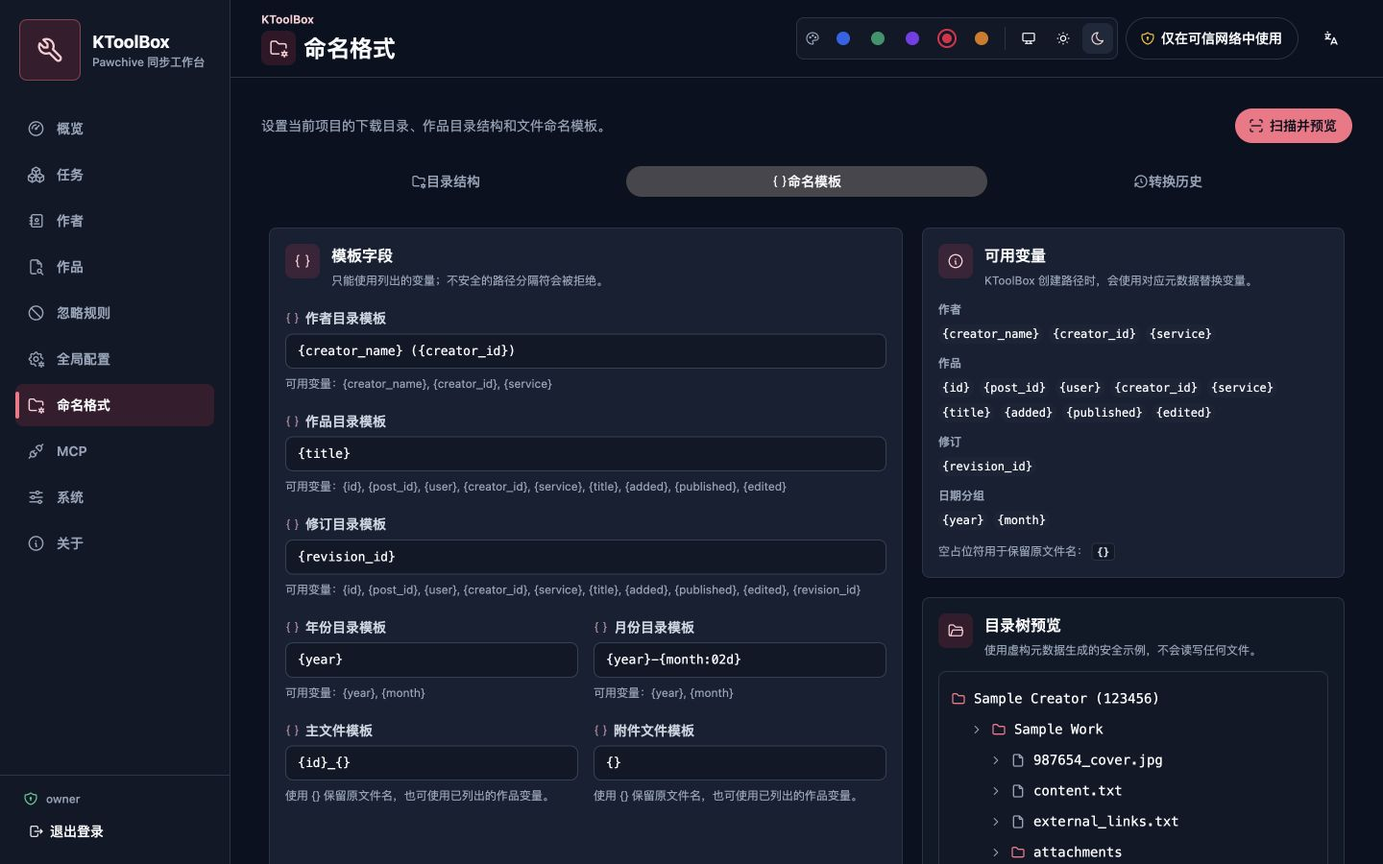
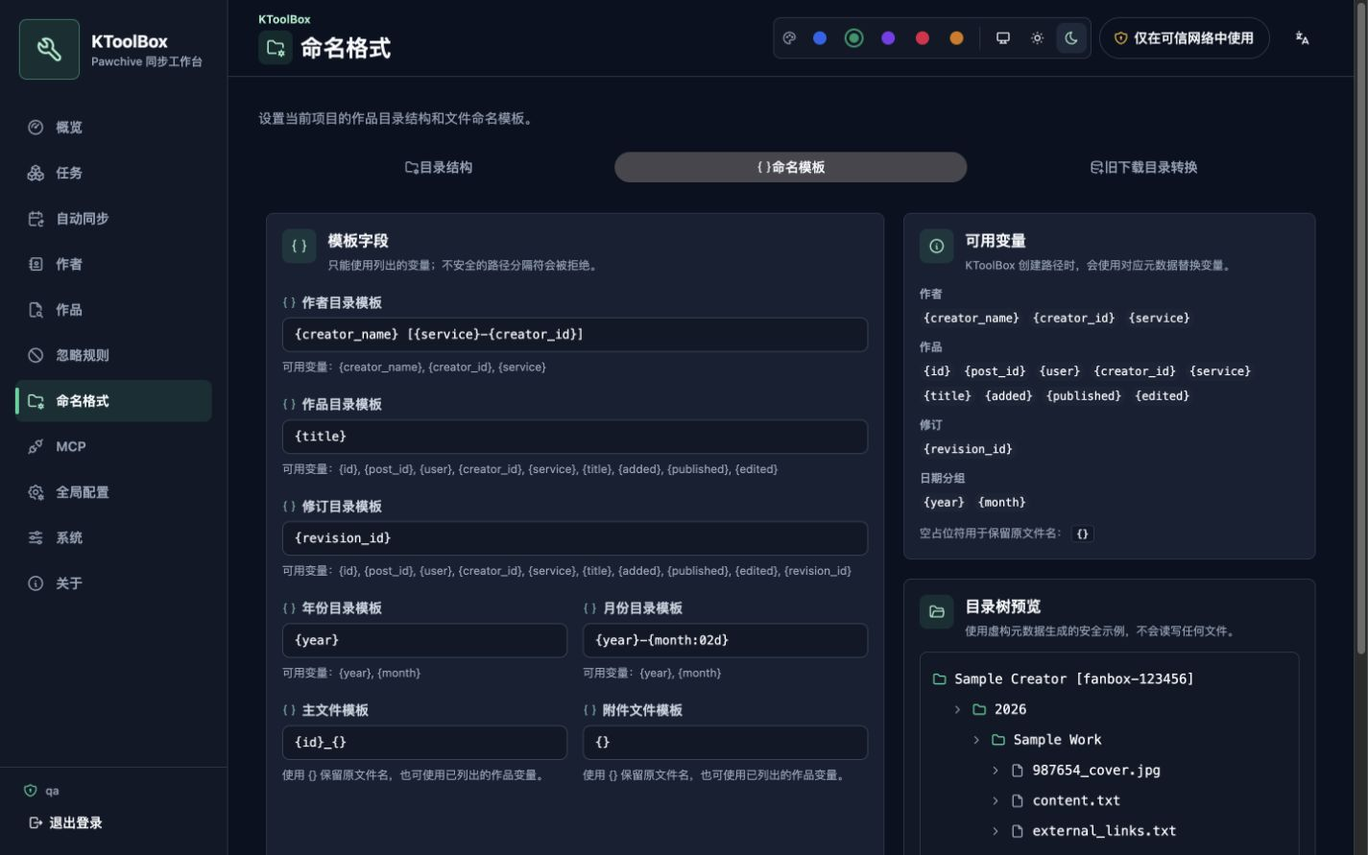
docs: clarify naming saves and legacy conversion

diff --git a/docs/ru/naming.md b/docs/ru/naming.md
@@ -6,7 +6,6 @@
 
 На странице **Формат имён** можно задать:
 
-- один или несколько корневых каталогов загрузки;
 - шаблоны каталогов автора, работы, редакции, года и месяца;
 - шаблоны основного файла и вложений;
 - внутренние имена вложений, редакций, содержимого и внешних ссылок;
@@ -14,25 +13,27 @@
 
 Допустимы только показанные рядом переменные, например `{creator_name}`, `{creator_id}`, `{service}`, `{title}`, `{post_id}`, `{revision_id}`, `{year}` и `{month}`. Разделители пути, переходы к родителю, неизвестные переменные и небезопасные имена отклоняются до сканирования.
 
+Для **структуры каталогов** и **шаблонов имён** предусмотрены отдельные кнопки сохранения. Сохранение сразу применяется к будущим загрузкам, но никогда само по себе не перемещает старые файлы.
+
 ![Шаблоны имён в тёмной теме](../assets/webui/34-naming-templates-desktop-dark.png)
 
-## Предпросмотр загрузок
+## Преобразование прежних расположений
 
-**Сканировать и проверить** просматривает фактические корневые каталоги. Операция не зависит от истории задач и не обращается к Pawchive. Содержимое определяется по каталогу автора, `creator-indices.ktoolbox` и `post.json`; символические ссылки за пределы корней не открываются.
+Открывайте отдельную вкладку **Преобразование старых загрузок**, только если существующие данные должны соответствовать сохранённому формату. Добавьте прежние расположения и запустите сканирование. Эти пути являются источниками преобразования, а не местами сохранения будущих задач.
 
-Предпросмотр показывает старый и новый путь, число работ и файлов, размер, пропуски и конфликты для каждого автора. **Преобразовать загруженных авторов** включено по умолчанию, а все безопасные авторы сразу выбраны.
+Сканирование читает файловую систему напрямую, не полагается только на историю задач и не обращается к Pawchive. Содержимое определяется по каталогу автора, `creator-indices.ktoolbox` и `post.json`; символические ссылки за пределы выбранных расположений не открываются.
+
+Предпросмотр показывает старый и новый путь, число работ и файлов, размер, пропуски и конфликты для каждого автора. Все безопасно преобразуемые авторы выбраны по умолчанию.
 
 ![Мобильный предпросмотр преобразования](../assets/webui/35-naming-conversion-mobile-light.png)
 
 KToolBox не перезаписывает и не объединяет цель. Устаревший просмотр, изменённая конфигурация, связанная активная задача, дублирующаяся цель или изменение файловой системы требуют нового сканирования.
 
-## Применение и восстановление
+## Преобразование и восстановление
 
-При включённом преобразовании KToolBox сохраняет ожидающий снимок настроек и перемещает файлы в фоне. Новый формат включается только после успеха всех выбранных операций. Отмена, ошибка записи или прерывание возвращает завершённые перемещения в обратном порядке и оставляет прежние настройки.
+KToolBox выполняет выбранные перемещения как постоянную фоновую операцию. Отмена, ошибка записи или прерывание возвращает завершённые перемещения в обратном порядке. Сохранённый формат продолжает использоваться для будущих загрузок.
 
 Прогресс и история хранятся в `.ktoolbox/webui.sqlite3`. После успеха временный журнал удаляется, а история остаётся до ручного удаления. Пустые исходные каталоги удаляются, но посторонние файлы никогда не затрагиваются.
-
-Если преобразование выключено, сохраняется только новый формат. Существующие загрузки остаются на месте, а будущие загрузки CLI и WebUI используют новый формат проекта.
 
 ## Миграция при первом запуске
 
@@ -42,8 +43,10 @@ KToolBox не перезаписывает и не объединяет цель
 2. создаёт резервную копию в `.ktoolbox/migrations/project-naming-v2/`;
 3. удаляет старые dotenv-ключи;
 4. печатает итог в терминале;
-5. показывает однократное уведомление после входа.
+5. после входа требует выбрать: навсегда игнорировать старые данные или проверить преобразование.
 
 ![Однократное уведомление о миграции](../assets/webui/36-naming-migration-notice-light.png)
 
-CLI также использует настройки проекта. Для старого проекта один раз запустите WebUI, чтобы выполнить атомарную миграцию с резервной копией.
+Диалог нельзя закрыть без выбора, и после обновления страницы он появится снова. **Проверить преобразование** открывает отдельную вкладку: известные старые расположения сканируются автоматически, а при их отсутствии страница предлагает добавить расположение. До подтверждения предпросмотра файлы не перемещаются.
+
+CLI также использует настройки проекта. Для старого проекта один раз запустите WebUI, чтобы выполнить атомарную миграцию конфигурации с резервной копией.

diff --git a/CHANGELOG.md b/CHANGELOG.md
@@ -25,7 +25,7 @@ KToolBox v1 is a breaking release that moves the project to Pawchive as its only
 - Replace Python Fire with Cyclopts commands, direct Rich help, shell completion, conventional hyphenated options, machine-readable output, and explicit `0`/`1`/`2`/`130` exit codes.
 - Add hidden compatibility aliases for the seven v0 command names with one deprecation warning per invocation.
 - Add project-level `ktoolbox.toml` with an enabled/disabled creator roster, aliases, comment-preserving atomic writes, path discovery, validation, and Urwid editor support.
-- Upgrade project configuration to Schema v2 with project-scoped download roots, naming templates, internal work layout, and one path-generation contract shared by CLI and WebUI.
+- Upgrade project configuration to Schema v4 with project-scoped naming, automatic-sync plans, and one path-generation contract shared by CLI and WebUI.
 - Add extensible asynchronous post blockers with ordered global/creator scopes, recursive any/all rules, negation, safe nested field selectors, and contains/equals/regex/exists operations.
 - Add multi-creator synchronization with bounded concurrent producers, fair per-creator queue rotation, streaming startup, one shared client and download pool, partial-failure summaries, and stable creator directories.
 - Replace tqdm and the handwritten ANSI progress layer with Rich live progress, per-file and aggregate transfer speeds, Rich-aware logging, and deterministic plain output for non-TTY, `NO_COLOR`, and `--plain` environments.
@@ -70,10 +70,10 @@ KToolBox v1 is a breaking release that moves the project to Pawchive as its only
 - Replace UUID-oriented cleanup warnings with readable task targets, output summaries, and expandable relative-file previews.
 - Add a localized About page with version, license, runtime, author, and official resource links while omitting author email addresses.
 - Render visible URLs, IP addresses, listener addresses, and URL examples with shared inline-code styling.
-- Add a localized Naming Format page with template validation, variable insertion, live directory-tree examples, and real download-root scanning independent of task history.
-- Preview existing creator, work, file, and byte counts before conversion; select creators individually and reject stale scans, active-task conflicts, unsafe symlinks, and destination collisions.
-- Apply naming changes as persistent background conversions with an operation journal, atomic activation, cancellation rollback, restart recovery, and empty-source cleanup.
-- Migrate legacy global naming fields before first-start project creation, back up dotenv files, remove migrated keys, and report the one-time change in both the terminal and WebUI.
+- Add a localized Naming Format page with separate structure/template saves, variable validation, and live directory-tree examples.
+- Move old locations into a dedicated legacy-conversion tab so they cannot be mistaken for future task destinations; scan the filesystem independently of task history and preview creator, work, file, and byte counts.
+- Apply selected legacy moves as persistent background conversions with an operation journal, cancellation rollback, restart recovery, and empty-source cleanup.
+- Migrate legacy global naming fields before first-start project creation, back up dotenv files, remove migrated keys, and require an explicit ignore-or-review decision after login.
 - Add project-scoped automatic synchronization plans with five-field Cron or fixed intervals, IANA time zones, future-run previews, pause and immediate-run controls, per-creator checkpoints, overlap-safe work deduplication, and privacy-preserving recent-update counts.
 
 ## Testing and quality
@@ -122,7 +122,7 @@ KToolBox v1 是一次不兼容升级，项目改为仅支持 Pawchive 后端。
 - 使用 Cyclopts 命令、直接 Rich 帮助、Shell 补全、常规连字符选项、机器可读输出和明确的 `0`/`1`/`2`/`130` 退出码替换 Python Fire。
 - 为 7 个 v0 命令名新增隐藏兼容别名，每次调用提示一次弃用。
 - 新增项目级 `ktoolbox.toml`，包含可启停作者清单、别名、保留注释的原子写入、路径发现、校验和 Urwid 编辑支持。
-- 将项目配置升级到 Schema v2，新增项目级下载根目录、命名模板与作品内部布局，并让 CLI 和 WebUI 共用同一套路径生成契约。
+- 将项目配置升级到 Schema v4，新增项目级命名格式与自动同步计划，并让 CLI 和 WebUI 共用同一套路径生成契约。
 - 新增可扩展异步作品忽略规则，支持有序全局/作者作用域、递归 any/all 规则、取反、安全嵌套字段选择器及 contains/equals/regex/exists 操作。
 - 新增多作者同步：有界并发生产者、按作者公平轮转队列、流式启动、共享客户端与下载池、部分失败汇总和稳定作者目录。
 - 使用 Rich 实时进度、单文件与总下载速度、Rich 感知日志和适用于非 TTY、`NO_COLOR`、`--plain` 的确定性逐行输出替换 tqdm 与手写 ANSI 进度层。
@@ -161,10 +161,10 @@ KToolBox v1 是一次不兼容升级，项目改为仅支持 Pawchive 后端。
 - 删除确认使用可读任务目标、输出摘要和可展开的相对文件预览，不再向用户展示 UUID。
 - 新增七语言关于页，展示版本、许可证、运行环境、作者和官方资源，同时隐藏作者邮箱。
 - 所有可见 URL、IP、监听地址和 URL 示例统一使用共享行内代码样式。
-- 新增七语言“命名格式”页面，提供模板校验、变量插入、实时目录树示例，以及不依赖任务历史的真实下载根目录扫描。
-- 转换前展示作者、作品、文件和字节统计，允许逐作者选择，并拒绝陈旧扫描、活动任务冲突、不安全符号链接和目标路径冲突。
-- 使用持久操作日志在后台执行命名转换，支持原子启用、取消回滚、重启恢复和空源目录清理。
-- 在首次创建项目配置前迁移旧全局命名字段，备份 dotenv 文件、删除已迁移键，并在终端与 WebUI 中显示一次性通知。
+- 新增七语言“命名格式”页面，分别保存目录结构和命名模板，提供变量校验与实时目录树示例。
+- 将旧下载位置放入独立转换标签页，避免被误解为未来任务输出设置；扫描不依赖任务历史，并在转换前展示作者、作品、文件和字节统计。
+- 使用持久操作日志在后台执行选中的旧目录转换，支持取消回滚、重启恢复和空源目录清理。
+- 在首次创建项目配置前迁移旧全局命名字段，备份 dotenv 文件、删除已迁移键，并在登录后要求明确选择忽略旧内容或检查转换。
 - 新增项目级自动同步计划，支持五段 Cron 或固定间隔、IANA 时区、未来执行预览、暂停与立即执行、按作者推进检查点、重叠窗口作品去重，以及不加载标题和媒体的最近更新统计。
 
 ## 测试与质量

diff --git a/docs/fr/naming.md b/docs/fr/naming.md
@@ -6,7 +6,6 @@ Dans KToolBox v1, le nommage appartient au projet. La CLI et la WebUI lisent la 
 
 La page **Format de nommage** permet de définir :
 
-- un ou plusieurs répertoires racines de téléchargement ;
 - les modèles de dossiers d’auteur, d’œuvre, de révision, d’année et de mois ;
 - les modèles du fichier principal et des pièces jointes ;
 - les noms internes des pièces jointes, révisions, contenus et liens externes ;
@@ -14,25 +13,27 @@ La page **Format de nommage** permet de définir :
 
 Seules les variables affichées à côté du champ sont acceptées, par exemple `{creator_name}`, `{creator_id}`, `{service}`, `{title}`, `{post_id}`, `{revision_id}`, `{year}` et `{month}`. Les séparateurs de chemin, remontées parent, variables inconnues et noms dangereux sont refusés avant l’analyse.
 
+**Structure des répertoires** et **Modèles de nommage** disposent de boutons d’enregistrement distincts. L’enregistrement s’applique immédiatement aux futurs téléchargements, sans jamais déplacer les anciens fichiers.
+
 ![Modèles de nommage en thème sombre](../assets/webui/34-naming-templates-desktop-dark.png)
 
-## Prévisualiser les téléchargements
+## Convertir les anciens emplacements
 
-**Analyser et vérifier** parcourt les vrais répertoires racines. L’opération ne dépend pas de l’historique des tâches et ne contacte pas Pawchive. Elle utilise l’identité des dossiers d’auteur, `creator-indices.ktoolbox` et `post.json`, sans suivre les liens symboliques hors des racines.
+Ouvrez l’onglet séparé **Conversion des anciens téléchargements** uniquement si le contenu existant doit adopter le format enregistré. Ajoutez les anciens emplacements, puis lancez leur analyse. Ces emplacements sont des sources de conversion, pas les destinations des futures tâches.
 
-La prévisualisation indique anciens et nouveaux chemins, nombres d’œuvres et de fichiers, taille totale, éléments ignorés et conflits. **Convertir les auteurs téléchargés** est activé par défaut et sélectionne tous les auteurs convertibles en sécurité.
+L’analyse lit directement le système de fichiers, ne dépend pas uniquement de l’historique des tâches et ne contacte pas Pawchive. Elle utilise l’identité des dossiers d’auteur, `creator-indices.ktoolbox` et `post.json`, sans suivre les liens symboliques hors des emplacements choisis.
+
+La prévisualisation indique anciens et nouveaux chemins, nombres d’œuvres et de fichiers, taille totale, éléments ignorés et conflits. Tous les auteurs convertibles en sécurité sont sélectionnés par défaut.
 
 ![Prévisualisation mobile de conversion](../assets/webui/35-naming-conversion-mobile-light.png)
 
 KToolBox n’écrase ni ne fusionne une cible. Une prévisualisation périmée, une configuration modifiée, une tâche liée active, une cible dupliquée ou un changement du système de fichiers impose une nouvelle analyse.
 
-## Appliquer et récupérer
+## Convertir et récupérer
 
-Lorsque la conversion est active, KToolBox enregistre un instantané en attente puis déplace les fichiers en arrière-plan. Le nouveau format n’est activé qu’après la réussite de toutes les opérations choisies. Une annulation, une erreur d’écriture ou une interruption restaure les déplacements en ordre inverse et conserve l’ancienne configuration.
+KToolBox exécute les déplacements choisis dans une tâche persistante en arrière-plan. Une annulation, une erreur d’écriture ou une interruption restaure les déplacements en ordre inverse. Le format déjà enregistré reste actif pour les futurs téléchargements.
 
 La progression et l’historique résident dans `.ktoolbox/webui.sqlite3`. Les journaux temporaires sont supprimés après réussite ; l’historique reste jusqu’à sa suppression manuelle. Les anciens dossiers devenus vides sont retirés, jamais les fichiers sans rapport.
-
-Sans conversion, seul le nouveau format est enregistré. Les téléchargements existants restent en place et les futurs téléchargements CLI ou WebUI utilisent le nouveau format du projet.
 
 ## Migration au premier démarrage
 
@@ -42,8 +43,10 @@ Au premier démarrage de la WebUI, KToolBox migre les anciennes clés de `.env` 
 2. sauvegarde sous `.ktoolbox/migrations/project-naming-v2/` ;
 3. suppression des anciennes clés dotenv ;
 4. résumé dans le terminal ;
-5. notification WebUI unique après connexion.
+5. choix obligatoire après connexion entre ignorer définitivement l’ancien contenu et vérifier une conversion.
 
 ![Notification unique de migration](../assets/webui/36-naming-migration-notice-light.png)
 
-La CLI utilise également le nommage du projet. Démarrez une fois la WebUI d’un ancien projet pour terminer cette migration atomique avec sauvegarde.
+La boîte de dialogue ne peut pas être fermée sans choix et réapparaît après actualisation. **Vérifier la conversion** ouvre l’onglet dédié ; les anciens emplacements connus sont analysés automatiquement, sinon la page demande d’en ajouter un. Aucun fichier n’est déplacé avant confirmation de la prévisualisation.
+
+La CLI utilise également le nommage du projet. Démarrez une fois la WebUI d’un ancien projet pour terminer cette migration atomique de configuration avec sauvegarde.

diff --git a/docs/ko/naming.md b/docs/ko/naming.md
@@ -6,7 +6,6 @@ KToolBox v1의 이름 설정은 프로젝트별로 관리됩니다. CLI와 WebUI
 
 WebUI의 **이름 형식** 페이지에서 다음을 설정할 수 있습니다.
 
-- 하나 이상의 다운로드 루트
 - 크리에이터, 작품, 리비전, 연도 및 월 디렉터리 템플릿
 - 기본 파일과 첨부 파일 템플릿
 - 작품 내부의 첨부, 리비전, 본문 및 외부 링크 이름
@@ -14,25 +13,27 @@ WebUI의 **이름 형식** 페이지에서 다음을 설정할 수 있습니다.
 
 템플릿에는 필드 옆에 표시되는 `{creator_name}`, `{creator_id}`, `{service}`, `{title}`, `{post_id}`, `{revision_id}`, `{year}`, `{month}` 같은 변수만 사용할 수 있습니다. 경로 구분자, 상위 경로 이동, 알 수 없는 변수 및 안전하지 않은 이름은 스캔 전에 거부됩니다.
 
+**디렉터리 구조**와 **이름 템플릿**에는 각각 저장 버튼이 있습니다. 저장한 설정은 이후 다운로드에 즉시 적용되지만 기존 파일을 자동으로 이동하지 않습니다.
+
 ![어두운 테마의 이름 템플릿](../assets/webui/34-naming-templates-desktop-dark.png)
 
-## 기존 다운로드 미리보기
+## 이전 다운로드 위치 변환
 
-**스캔 및 검토**는 실제 다운로드 루트를 스캔합니다. 작업 기록에 의존하지 않고 Pawchive에도 연결하지 않습니다. 크리에이터 디렉터리 신원, `creator-indices.ktoolbox`, `post.json`을 사용하며 루트 밖으로 나가는 심볼릭 링크를 따르지 않습니다.
+기존 콘텐츠를 저장된 형식으로 바꿀 때만 별도의 **이전 다운로드 변환** 탭을 사용합니다. 이전 위치를 추가하고 스캔하세요. 이 위치는 변환 원본이며 이후 작업의 다운로드 대상이 아닙니다.
 
-미리보기에는 크리에이터별 이전/새 경로, 작품 수, 파일 수, 전체 크기, 건너뜀 및 충돌이 표시됩니다. **다운로드한 크리에이터 변환**은 기본으로 켜져 있고 안전하게 변환 가능한 크리에이터가 모두 선택됩니다.
+스캔은 파일 시스템을 직접 읽고 작업 기록에만 의존하지 않으며 Pawchive에도 연결하지 않습니다. 크리에이터 디렉터리 신원, `creator-indices.ktoolbox`, `post.json`을 사용하고 선택 위치 밖으로 나가는 심볼릭 링크를 따르지 않습니다.
+
+미리보기에는 크리에이터별 이전/새 경로, 작품 수, 파일 수, 전체 크기, 건너뜀 및 충돌이 표시됩니다. 안전하게 변환 가능한 크리에이터가 모두 기본 선택됩니다.
 
 ![모바일 이름 변환 미리보기](../assets/webui/35-naming-conversion-mobile-light.png)
 
 KToolBox는 대상을 덮어쓰거나 합치지 않습니다. 오래된 미리보기, 설정 변경, 관련 활성 작업, 중복 대상 또는 파일 시스템 변경이 있으면 다시 스캔해야 합니다.
 
-## 적용 및 복구
+## 변환 및 복구
 
-변환을 켜면 KToolBox가 대기 설정 스냅샷을 저장한 뒤 백그라운드에서 이동합니다. 선택한 작업이 모두 성공한 후에만 새 설정을 활성화합니다. 취소, 쓰기 실패 또는 프로세스 중단 시 완료된 이동을 역순으로 되돌리고 이전 설정을 유지합니다.
+KToolBox는 선택한 이동을 영구 백그라운드 작업으로 실행합니다. 취소, 쓰기 실패 또는 프로세스 중단 시 완료된 이동을 역순으로 되돌립니다. 저장된 이름 형식은 이후 다운로드에 계속 적용됩니다.
 
 진행률과 기록은 `.ktoolbox/webui.sqlite3`에 저장됩니다. 성공하면 임시 작업 로그를 지우고 기록은 수동 삭제할 때까지 보존합니다. 비어 있는 이전 디렉터리는 제거하지만 관련 없는 파일은 삭제하지 않습니다.
-
-변환을 끄면 새 형식만 저장합니다. 기존 다운로드는 그대로 유지되고 이후 CLI와 WebUI 다운로드가 새 프로젝트 형식을 사용합니다.
 
 ## 최초 시작 마이그레이션
 
@@ -42,8 +43,10 @@ WebUI 최초 시작 시 기본 프로젝트 설정을 만들기 전에 `.env`와
 2. `.ktoolbox/migrations/project-naming-v2/`에 백업
 3. 이전 dotenv 키 제거
 4. 터미널 요약 출력
-5. 로그인 후 한 번만 WebUI 알림 표시
+5. 로그인 후 기존 콘텐츠를 영구히 무시할지 변환을 검토할지 반드시 선택
 
 ![일회성 이름 마이그레이션 알림](../assets/webui/36-naming-migration-notice-light.png)
 
-CLI도 프로젝트 이름 설정을 사용합니다. 이전 프로젝트는 WebUI를 한 번 시작해 백업과 원자적 마이그레이션을 완료하세요.
+이 대화상자는 선택 없이 닫을 수 없고 새로 고침 후에도 다시 표시됩니다. **변환 검토**는 전용 탭을 열며, 알려진 이전 위치가 있으면 자동으로 스캔하고 없으면 추가하도록 안내합니다. 미리보기를 확인하기 전에는 파일을 이동하지 않습니다.
+
+CLI도 프로젝트 이름 설정을 사용합니다. 이전 프로젝트는 WebUI를 한 번 시작해 백업과 원자적 설정 마이그레이션을 완료하세요.

diff --git a/docs/en/naming.md b/docs/en/naming.md
@@ -6,7 +6,6 @@ Naming is project-specific in KToolBox v1. The CLI and WebUI read the same `[nam
 
 Open **Naming format** in the WebUI to configure:
 
-- one or more download roots;
 - creator, work, revision, year, and month directory templates;
 - primary-file and attachment-file templates;
 - attachment, revision, content, and external-link names inside each work;
@@ -14,25 +13,27 @@ Open **Naming format** in the WebUI to configure:
 
 Template fields accept only the variable chips shown beside them, such as `{creator_name}`, `{creator_id}`, `{service}`, `{title}`, `{post_id}`, `{revision_id}`, `{year}`, and `{month}`. Path separators, parent traversal, unknown variables, and unsafe names are rejected before scanning.
 
+**Directory structure** and **Naming templates** have separate save buttons. Saving changes future downloads immediately. Old files are never moved merely because a naming setting was saved.
+
 ![Naming templates in the dark theme](../assets/webui/34-naming-templates-desktop-dark.png)
 
-## Preview existing downloads
+## Convert old download locations
 
-**Scan and review** scans the actual download roots. It does not depend on task history and does not contact Pawchive. KToolBox identifies content from creator directory identities, `creator-indices.ktoolbox`, and `post.json`, without following symbolic links outside the roots.
+Open the dedicated **Legacy download conversion** tab only when previously downloaded content needs to follow the saved naming format. Add one or more old locations, then choose **Scan old locations**. These locations are scan inputs, not destinations for future tasks.
 
-The preview shows each creator's old and new path, work and file counts, total size, skipped items, and conflicts. **Convert downloaded creators** is enabled by default. Every safely convertible creator starts selected, and you can exclude individual creators before applying the change.
+The scan reads the filesystem rather than relying only on task history, and it does not contact Pawchive. KToolBox identifies content from creator directory identities, `creator-indices.ktoolbox`, and `post.json`, without following symbolic links outside the selected locations.
+
+The preview shows each creator's old and new path, work and file counts, total size, skipped items, and conflicts. Every safely convertible creator starts selected, and you can exclude individual creators before applying the change.
 
 ![Naming conversion review on mobile](../assets/webui/35-naming-conversion-mobile-light.png)
 
 KToolBox never overwrites or merges a target. A stale scan, changed configuration, active related task, duplicate target, or filesystem change requires a new preview.
 
-## Apply and recover
+## Convert and recover
 
-With conversion enabled, KToolBox persists a pending configuration snapshot and runs the move as a background conversion. The new format becomes active only after every selected operation succeeds. Cancellation, write failure, or an interrupted process rolls completed moves back in reverse order and leaves the previous configuration active.
+KToolBox runs selected moves as a persistent background conversion. Cancellation, write failure, or an interrupted process rolls completed moves back in reverse order. The already saved naming format remains active for future downloads.
 
 Conversion progress and history are stored in `.ktoolbox/webui.sqlite3`. Successful temporary move logs are removed; completed history remains until you delete its record. A successful conversion removes empty source directories, but it never deletes unrelated files.
-
-If conversion is disabled, only the new format is saved. Existing downloads stay where they are, and future CLI or WebUI downloads use the new project format.
 
 ## First-start migration
 
@@ -42,8 +43,10 @@ On the first WebUI startup, KToolBox migrates legacy naming keys from `.env` and
 2. backs up the dotenv files under `.ktoolbox/migrations/project-naming-v2/`;
 3. removes the migrated legacy keys;
 4. prints a terminal summary; and
-5. shows a one-time WebUI notice after login.
+5. asks after login whether to ignore old content permanently or review a conversion.
 
 ![One-time naming migration notice](../assets/webui/36-naming-migration-notice-light.png)
 
-The CLI uses the project naming configuration too. When a legacy project still needs migration, start its WebUI once to complete the backed-up, atomic conversion.
+The decision dialog cannot be dismissed without choosing. Refreshing continues to show it until **Ignore** or **Review conversion** is selected. **Review conversion** opens the legacy conversion tab; known old locations are scanned automatically, otherwise the page asks you to add one. It never moves files before the preview is confirmed.
+
+The CLI uses the project naming configuration too. When a legacy project still needs migration, start its WebUI once to complete the backed-up, atomic configuration migration.

diff --git a/README_ru.md b/README_ru.md
@@ -125,7 +125,7 @@ ktoolbox webui /path/to/project
 
 Глобальная конфигурация использует Select или ComboBox по смыслу поля и показывает выбор пути только для настоящих расположений. Завершённую синхронизацию можно запустить снова в той же записи; подтверждение удаления показывает понятную цель и раскрываемый список относительных путей вместо внутреннего UUID. Страница «О программе» собирает версию, лицензию, среду выполнения и официальные ссылки, а URL и адреса прослушивания отображаются встроенным кодом.
 
-Формат имён теперь задаётся для каждого проекта. Страница **Формат имён** проверяет шаблоны, показывает дерево каталогов, сканирует настоящие каталоги загрузок и преобразует выбранных авторов с атомарным включением и полным откатом. Старые глобальные значения сохраняются в резервной копии и переносятся при первом запуске WebUI. См. [руководство по формату имён](https://ktoolbox.readthedocs.io/latest/ru/naming/).
+Формат имён задаётся для каждого проекта. Страница **Формат имён** отдельно сохраняет структуру и шаблоны, а отдельная вкладка преобразования старых загрузок сканирует прежние расположения и перемещает выбранных авторов с полным откатом. При первом запуске WebUI переносит старые глобальные значения и предлагает игнорировать прежние данные или проверить преобразование. См. [руководство по формату имён](https://ktoolbox.readthedocs.io/latest/ru/naming/).
 
 Страница **Автоматическая синхронизация** поддерживает несколько планов Cron или с фиксированным интервалом, показывает следующие три запуска и позволяет ставить план на паузу или запускать его сразу. Контрольные точки продвигаются отдельно по авторам, а обновления не загружают заголовки и медиа. См. [руководство по автоматической синхронизации](https://ktoolbox.readthedocs.io/latest/ru/automatic-sync/).
 
@@ -157,10 +157,10 @@ KTOOLBOX_JOB__MAX_FILE_SIZE=1048576
 
 Если задан `KTOOLBOX_DOWNLOADER__SESSION_KEY`, он отправляется только при скачивании файлов. Клиент API никогда не отправляет сеанс учётной записи.
 
-Файл `.env` управляет выполнением и передачей данных. Проектный `ktoolbox.toml` хранит формат имён, каталоги загрузок, список авторов и правила исключения:
+Файл `.env` управляет выполнением и передачей данных. Проектный `ktoolbox.toml` хранит формат имён, список авторов, планы автоматической синхронизации и правила исключения:
 
 ```toml
-schema_version = 2
+schema_version = 4
 
 [[creators]]
 service = "fanbox"

diff --git a/README_ja.md b/README_ja.md
@@ -125,7 +125,7 @@ ktoolbox webui /path/to/project
 
 グローバル設定は項目に応じて Select または ComboBox を使い、実際の保存場所だけにパス選択を表示します。完了した同期は同じタスク記録で再実行でき、削除確認は内部 UUID ではなく読みやすい対象と相対ファイル一覧を示します。情報ページにはバージョン、ライセンス、実行環境、公式リンクをまとめ、URL と待受アドレスはインラインコードで表示します。
 
-命名設定はプロジェクト固有になりました。「命名形式」ページではテンプレート検証、ディレクトリツリーのプレビュー、実際のダウンロードルートのスキャンを行い、選択したクリエイターをアトミックな有効化と完全なロールバック付きで変換できます。旧グローバル命名値は WebUI 初回起動時にバックアップして移行します。[命名形式ガイド](https://ktoolbox.readthedocs.io/latest/ja/naming/)を参照してください。
+命名設定はプロジェクト固有です。「命名形式」ページではディレクトリ構造とテンプレートを個別に保存し、独立した以前のダウンロード変換タブで旧場所をスキャンして、完全なロールバック付きで選択したクリエイターを変換できます。WebUI 初回起動時は旧グローバル値を移行し、既存内容を無視するか変換を確認するかを選択します。[命名形式ガイド](https://ktoolbox.readthedocs.io/latest/ja/naming/)を参照してください。
 
 **自動同期**ページでは、Cronまたは固定間隔の複数プラン、次の3回の実行プレビュー、一時停止、即時実行を管理できます。成功位置はクリエイターごとに進み、最近の更新はタイトルやメディアを読み込まず件数だけを集計します。[自動同期ガイド](https://ktoolbox.readthedocs.io/latest/ja/automatic-sync/)を参照してください。
 
@@ -157,10 +157,10 @@ KTOOLBOX_JOB__MAX_FILE_SIZE=1048576
 
 `KTOOLBOX_DOWNLOADER__SESSION_KEY` を設定した場合、その値はファイルのダウンロードだけに送信されます。API クライアントがアカウントセッションを送信することはありません。
 
-`.env` はランタイムと転送動作を制御し、プロジェクト単位の `ktoolbox.toml` は命名形式、ダウンロードルート、クリエイター一覧、除外ルールを保存します。
+`.env` はランタイムと転送動作を制御し、プロジェクト単位の `ktoolbox.toml` は命名形式、クリエイター一覧、自動同期プラン、除外ルールを保存します。
 
 ```toml
-schema_version = 2
+schema_version = 4
 
 [[creators]]
 service = "fanbox"

diff --git a/README_ko.md b/README_ko.md
@@ -125,7 +125,7 @@ ktoolbox webui /path/to/project
 
 전역 설정 페이지는 필드 의미에 따라 Select 또는 ComboBox를 사용하고 실제 위치 필드에만 경로 선택기를 제공합니다. 완료된 동기화는 같은 작업 기록에서 다시 실행할 수 있으며 삭제 확인은 내부 UUID 대신 읽기 쉬운 대상과 펼칠 수 있는 상대 파일 목록을 보여 줍니다. 정보 페이지는 버전, 라이선스, 실행 환경과 공식 링크를 모아 표시하고 URL과 수신 주소를 인라인 코드로 렌더링합니다.
 
-이름 설정은 프로젝트별로 저장됩니다. **이름 형식** 페이지는 템플릿을 검증하고 디렉터리 트리를 미리 보여 주며 실제 다운로드 루트를 스캔합니다. 선택한 크리에이터는 원자적 적용과 완전한 롤백을 보장하며 변환할 수 있습니다. 이전 전역 이름 값은 WebUI를 처음 시작할 때 백업 후 마이그레이션됩니다. [이름 형식 가이드](https://ktoolbox.readthedocs.io/latest/ko/naming/)를 참조하세요.
+이름 설정은 프로젝트별로 저장됩니다. **이름 형식** 페이지에서 디렉터리 구조와 템플릿을 각각 저장하며, 별도의 이전 다운로드 변환 탭에서 이전 위치를 스캔하고 완전한 롤백과 함께 선택한 크리에이터를 변환할 수 있습니다. WebUI 최초 시작 시 이전 전역 값을 마이그레이션하고 기존 콘텐츠를 무시할지 변환을 검토할지 선택합니다. [이름 형식 가이드](https://ktoolbox.readthedocs.io/latest/ko/naming/)를 참조하세요.
 
 **자동 동기화** 페이지는 여러 Cron 또는 고정 간격 계획, 다음 3회 실행 미리보기, 일시 중지 및 즉시 실행을 지원합니다. 성공 체크포인트는 크리에이터별로 진행되며 최근 업데이트는 제목이나 미디어를 불러오지 않고 수량만 집계합니다. [자동 동기화 가이드](https://ktoolbox.readthedocs.io/latest/ko/automatic-sync/)를 참조하세요.
 
@@ -157,10 +157,10 @@ KTOOLBOX_JOB__MAX_FILE_SIZE=1048576
 
 `KTOOLBOX_DOWNLOADER__SESSION_KEY`를 설정하면 파일 다운로드에만 전송됩니다. API 클라이언트는 계정 세션을 전송하지 않습니다.
 
-`.env`는 런타임과 전송 동작을 제어하고, 프로젝트 수준 `ktoolbox.toml`은 이름 형식, 다운로드 루트, 크리에이터 목록과 제외 규칙을 저장합니다.
+`.env`는 런타임과 전송 동작을 제어하고, 프로젝트 수준 `ktoolbox.toml`은 이름 형식, 크리에이터 목록, 자동 동기화 계획과 제외 규칙을 저장합니다.
 
 ```toml
-schema_version = 2
+schema_version = 4
 
 [[creators]]
 service = "fanbox"

diff --git a/docs/ru/migration-v1.md b/docs/ru/migration-v1.md
@@ -55,7 +55,7 @@ KTOOLBOX_DOWNLOADER__FILE_PATH_PREFIX=/data
 Создавайте `ktoolbox.toml` только для многократно используемого списка авторов или структурированных правил исключения. Отсутствующий файл означает допустимый пустой проект.
 
 ```toml
-schema_version = 2
+schema_version = 4
 
 [[creators]]
 service = "fanbox"
@@ -79,7 +79,7 @@ ktoolbox webui /path/to/project --host 127.0.0.1
 
 `.env` и `prod.env` теперь являются игнорируемыми локальными файлами, а не примерами под управлением версий. Храните в них учётные данные и сеансы загрузчика, используйте `example.env` как общедоступный шаблон и перед обновлением проверьте старые отслеживаемые dotenv-файлы. WebUI создаёт `.ktoolbox/webui.sqlite3` и блокировку проекта; ни то ни другое не меняет форматы вывода загрузок CLI.
 
-Шаблоны имён и каталоги загрузок теперь входят в Schema v2 проекта. При первом запуске WebUI сохраняет резервные копии `.env` и `prod.env`, переносит старые ключи в `ktoolbox.toml`, удаляет их и показывает одноразовое уведомление. Перед преобразованием существующих загрузок проверьте новое дерево; подробности см. в [руководстве по формату имён](naming.md).
+Шаблоны имён теперь входят в Schema v4 проекта, а прежние расположения не являются настройкой имён и используются только инструментом преобразования. При первом запуске WebUI создаёт резервные копии `.env` и `prod.env`, переносит старые ключи в `ktoolbox.toml`, удаляет их из прежних файлов, затем требует выбрать: игнорировать прежние данные или проверить преобразование. Подробности см. в [руководстве по формату имён](naming.md).
 
 Риски развёртывания HTTP и поведение постоянных задач описаны в [руководстве по WebUI](webui.md).
 
